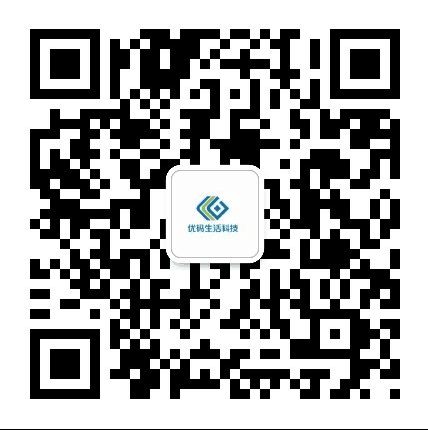
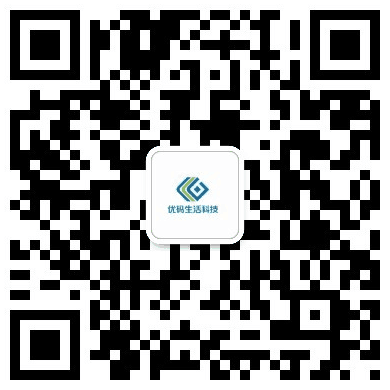
微信公众号二维码组件及页面展示

diff --git a/src/components/global/QRcode.vue b/src/components/global/QRcode.vue
@@ -1,0 +1,47 @@
+<template>
+    <div class="qr-code">
+        <img src="/static/imgs/ewm.png" />
+        <span>微信公众号</span>
+    </div>
+</template>
+
+<style>
+    .qr-code{
+        width: -webkit-calc(100% * 0.2);
+        width: -moz-calc(100% * 0.2);
+        width: -ms-calc(100% * 0.2);
+        width: calc(100% * 0.2);
+        min-width: 100px;
+        height: auto;
+
+        padding: 5px;
+        margin: 0px;
+
+        position: fixed;
+        right: 20px;
+        bottom: 20px;
+        z-index: 99;
+
+        background: rgba(255, 255, 255, 1);
+        border: 1px solid #eee;
+
+        -webkit-box-sizing: border-box;
+        -moz-box-sizing: border-box;
+        box-sizing: border-box;
+
+        opacity: 0.8;
+
+        img{
+            width: 100%;
+            height: auto;
+        }
+
+        span{
+            width: 100%;
+            height: 25px;
+            line-height: 25px;
+            margin: 0px;
+            padding: 0px;
+        }
+    }
+</style>

diff --git a/src/App.vue b/src/App.vue
@@ -3,6 +3,8 @@
     <!--顶部导航组件-->
     <navbar :title="navTitle"></navbar>
     <router-view></router-view>
+    <!--二维码-->
+    <qr_code></qr_code>
   </div>
 </template>
 
@@ -10,6 +12,8 @@
 
 //引入导航组件
 import navbar from '@/components/global/navbar'
+//引入公众号二维码组件
+import qr_code from '@/components/global/qrcode'
 
 export default {
   name: 'app',
@@ -18,6 +22,6 @@ export default {
       navTitle: ''
     }
   },
-  components:{ navbar }
+  components:{ navbar, qr_code }
 }
 </script>
